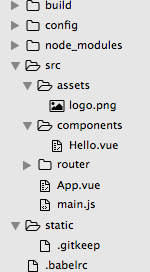
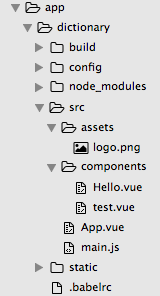
3

diff --git a/README.md b/README.md
@@ -1,8 +1,8 @@
 # A summary of the use of webpack
 
 ##### 题记：
-   最近几天在对自己写的词典项目进行*webpack*打包处理，该篇用以记录过程和踩过的坑。  
-   词典项目基于 Vue-cli ,所以也会是一个关于 vue_2.0和 webpack打包整个过程记录。
+   最近几天在对自己写的词典项目进行**webpack**打包处理，该篇用以记录过程和踩过的坑。  
+   词典项目基于**Vue-cli** ,所以也会是一个关于 vue_2.0和 webpack打包整个过程记录。
 
 ##### 准备工作：
 npm 安装响应的依赖库：
@@ -12,6 +12,7 @@ npm 安装响应的依赖库：
 ```
 
 ###### 构建 Vue-cli 项目环境
+
 在这之前需要创建一个文件夹用以存放你项目： //  本例：Floder: node
 ```node
     vue init webpack [name]
@@ -23,7 +24,7 @@ npm 安装响应的依赖库：
 ? Project description A Vue.js project  // 项目介绍
 ? Author Sliver <wnhoper@gmail.com>     // 作者
 ? Vue build standalone                  // 构建独立
-? Install vue-router? Yes               // vue-router 路由
+? Install vue-router? No                // 路由,这里我建议练习模块开发时关闭路由
 ? Use ESLint to lint your code? Yes     
 ? Pick an ESLint preset Standard         
 ? Setup unit tests with Karma + Mocha? No  // 一下两项为测试使用依赖 
@@ -39,8 +40,77 @@ npm 安装响应的依赖库：
    Documentation can be found at https://vuejs-templates.github.io/webpack
 
     npm install   // 时间可能会久一点，耐心等待
-    npm run dev   // 稍等片刻，vue 会穿件一个server port:8080, 浏览器会主动打开
+    npm run dev   
+    // 稍等片刻，vue 会创建一个server port:8080, 浏览器会主动打开, vue的热加载
+    即在代码中的每次更改都会同步到ui当中，如果出现错误，在终端内也会提示错误信息
 ```
 ![img](/images/cli.png) ![img](/images/floder.png)  
+** 在目录中需要注意一下几点 **
+* App.vue 为所有组件`注册`和`使用`的入口文件
+* main.js 为所书写的js的的入口文件
+* 所有的组件必须先注册，才能使用，否则在终端中会报错（提示信息完善）
+
 ##### 开工
+先写一个打招呼的组件热热身吧，熟悉一下玩法
+在 `src` 目录下的`components`下创建一个`test.vue`开启第一次尝试吧
+```
+// test.vue
+  <template>
+    <div class="test">
+        <h2> this is one test! </h2>
+        <input type="text" v-model="msg">
+        <span>{{mes}}</span>
+    </div>
+  </template> 
+
+  <script>  // 这里为组件添加必要data
+  exprot default {
+    data () {   // 此处为坑点:data是一个函数,书写方式严格,fnName与括号见的空格不可省略
+      return {  // 这里注意，在vue组件中,所有用到的信息都是data函数的返回值
+         mes: 'hello honey!'
+      }
+    } 
+  }
+  </script>
+  
+  <style>  // 这里为组件写样式
+    .test {
+      font-family: 'yahei';
+      color: #eac;
+    }
+  </style>
+```
+接下来，我们需要到App.vue来改写点东西
+```
+<template>
+  <div id="app">
+    <img src="./assets/logo.png">
+    <hello></hello>
+    <test></test>  // 使用组件
+  </div>
+</template>
+
+<script>
+import Hello from './components/Hello' 
+import test from './components/test.vue'  // 注册组件
+
+export default {
+  name: 'app',
+  components: {
+    Hello,
+    test    // 添加组件
+  }
+}
+</script>
+
+<style>
+...
+</style>
+
+```
+然后看看你页面有没有发生变化呢？ 同时，细心的我们发现在终端中会一直提示你在干嘛
+![time](/images/time.png) ![example](/images/example_1.png)  
+哈哈，恶趣味一下！  
+继续！我的目的是对我的字典进行模块化的改写。
+
 
